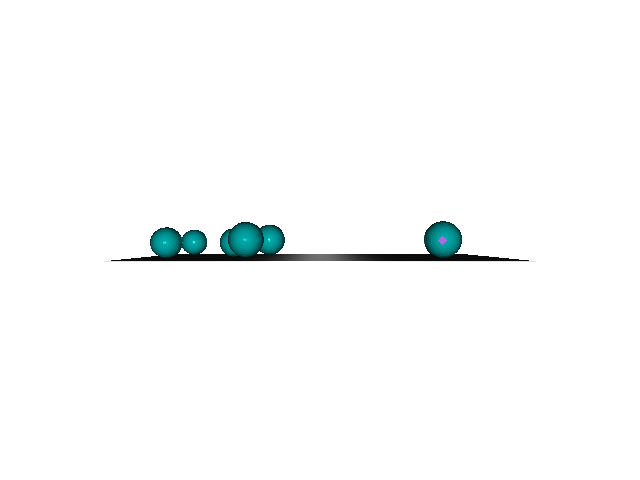
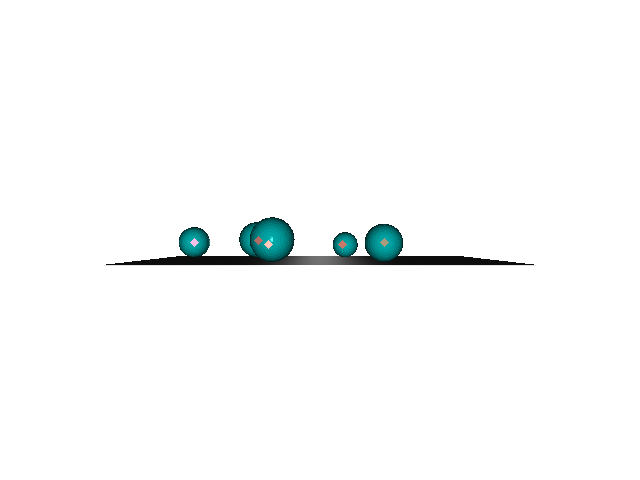
last before gpt4

Changed region(s): [[0.1562, 0.4375, 0.8438, 0.5625]]

diff --git a/CWII2324-v2.py b/CWII2324-v2.py
@@ -61,7 +61,8 @@ def findCircles(img, imageNumber):
     blur = cv2.medianBlur(img_gray, 5)
 
     circles = cv2.HoughCircles(blur, cv2.HOUGH_GRADIENT, dp=1, minDist=10, param1=50, param2=15, minRadius=0,
-                               maxRadius=180)
+                            maxRadius=180)
+
     centers = []
     if circles is not None:
 
@@ -405,8 +406,8 @@ if __name__ == '__main__':
     Write your code here
     '''
     ###################################
-    """
-    print(GT_cents)
+
+
 
     coordinates = []
     for x, y in match:
@@ -438,7 +439,8 @@ if __name__ == '__main__':
 
 
         points3D.append(P)
-    print(points3D)"""
+    print(points3D)
+
     E = np.matmul(np.transpose(K.intrinsic_matrix), np.matmul(fundamental_matrix, K.intrinsic_matrix))
 
     # Step 3: Decompose the essential matrix to obtain the relative camera pose
@@ -457,16 +459,42 @@ if __name__ == '__main__':
         circle_center1_homogeneous = np.array([circle_center1[0], circle_center1[1]])
 
         # Triangulate the 3-D point using the relative camera pose
-        P0 = np.hstack((np.eye(3), np.zeros((3, 1))))
-        P1 = np.hstack((R, t))
-        sphere_center_3d_homogeneous = cv2.triangulatePoints( projection_matrix,  P1, circle_center0_homogeneous,circle_center1_homogeneous)
-        print(sphere_center_3d_homogeneous)
+        P0 = H0_wc[:3]
+        P1 = H1_wc[:3]
+        print(P1)
+        sphere_center_3d_homogeneous = cv2.triangulatePoints( P0,  P1, circle_center0_homogeneous,circle_center1_homogeneous)
+
         # Convert the 3-D point from homogeneous coordinates to Cartesian coordinates
         sphere_center_3d_cartesian = sphere_center_3d_homogeneous[:3] / sphere_center_3d_homogeneous[3]
 
         # Append the 3-D point to the list of sphere centers
-        sphere_centers_3d.append((sphere_center_3d_cartesian[0][0],sphere_center_3d_cartesian[1][0],1))
+        sphere_centers_3d.append((sphere_center_3d_cartesian[0][0], 1,sphere_center_3d_cartesian[1][0]))
     print(sphere_centers_3d)
+
+    k = [[K.intrinsic_matrix[0][0],K.intrinsic_matrix[0][1],K.intrinsic_matrix[0][2],0],
+         [K.intrinsic_matrix[1][0], K.intrinsic_matrix[1][1], K.intrinsic_matrix[1][2], 0],
+         [K.intrinsic_matrix[2][0], K.intrinsic_matrix[2][1], K.intrinsic_matrix[2][2], 0],
+         ]
+
+    p = np.array(k)@H1_wc
+
+    answer = np.array([[k[0][3]-k[2][3]],
+              [k[1][3]-k[2][3]],
+              [p[0][3]-p[2][3]],
+              [p[1][3]-p[2][3]]])
+    sphere_centers_3d = []
+    for (circle_center0, circle_center1) in match:
+        ur= circle_center1[0]
+        vr = circle_center1[1]
+        ul = circle_center0[0]
+        vl = circle_center0[1]
+        matrix = np.array([[ur*k[2][0] - k[0][0],     ur*k[2][1] - k[0][1],        ur*k[2][2] - k[0][2]   ],
+                  [vr*k[2][0] - k[1][0],      vr*k[2][1] - k[1][1],     vr*k[2][2] - k[1][2]],
+                  [ul * p[2][0]-p[0][0],      ul * p[2][1]-p[0][1],        ul * p[2][2]-p[0][2]],
+                  [vl * p[2][0]-p[1][0],      vl * p[2][1]-p[1][1],        vl * p[2][2]-p[1][2]]])
+        point_3D = np.linalg.inv( np.transpose(matrix) @ matrix ) @ np.transpose(matrix) @ answer
+
+        sphere_centers_3d.append((point_3D[0][0], 1, point_3D[2][0]))
 
 
     ###################################
@@ -480,13 +508,24 @@ if __name__ == '__main__':
     pcd_est_cents = o3d.geometry.PointCloud()
     pcd_est_cents.points = o3d.utility.Vector3dVector(np.array(sphere_centers_3d)[:, :3])
     pcd_est_cents.paint_uniform_color([0., 0., 1.])
+    print("--------")
     print(np.asarray(pcd_GTcents.points))
+    print("--------")
     print(np.asarray(pcd_est_cents.points))
+    print("--------")
+    print(np.array(GT_rads))
     # Add the point clouds to the visualization
+    vis = o3d.visualization.Visualizer()
+    vis.create_window(width=640, height=480, left=0, top=0)
+    for m in [obj_meshes[0], pcd_GTcents]:
+
+        vis.add_geometry(m)
+
+    vis.add_geometry( pcd_est_cents)
 
 
-
-    o3d.visualization.draw_geometries([pcd_GTcents, pcd_est_cents])
+    vis.run()
+    vis.destroy_window()
     ###################################
     '''
     Task 8: 3-D radius of spheres
